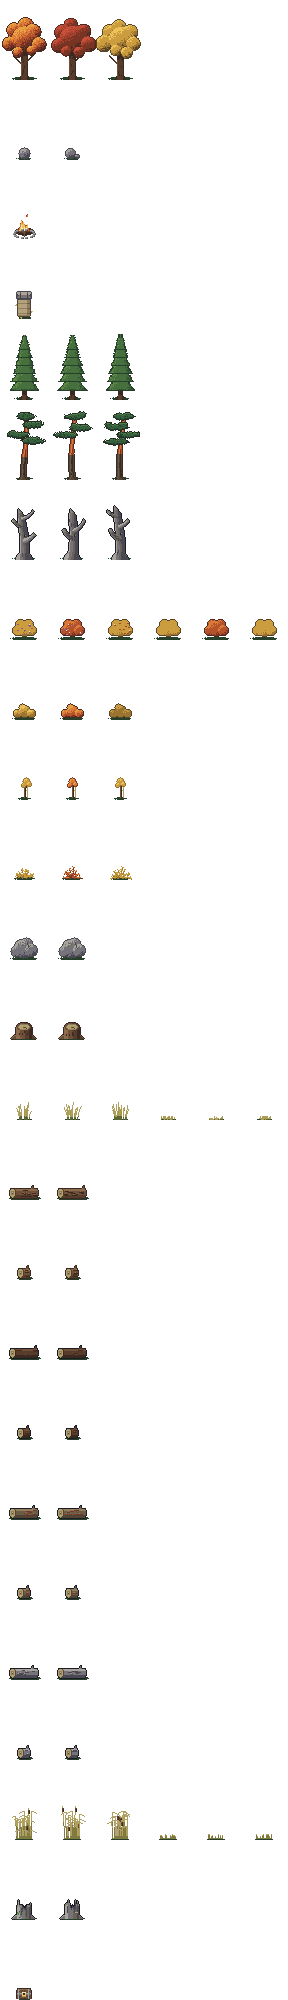
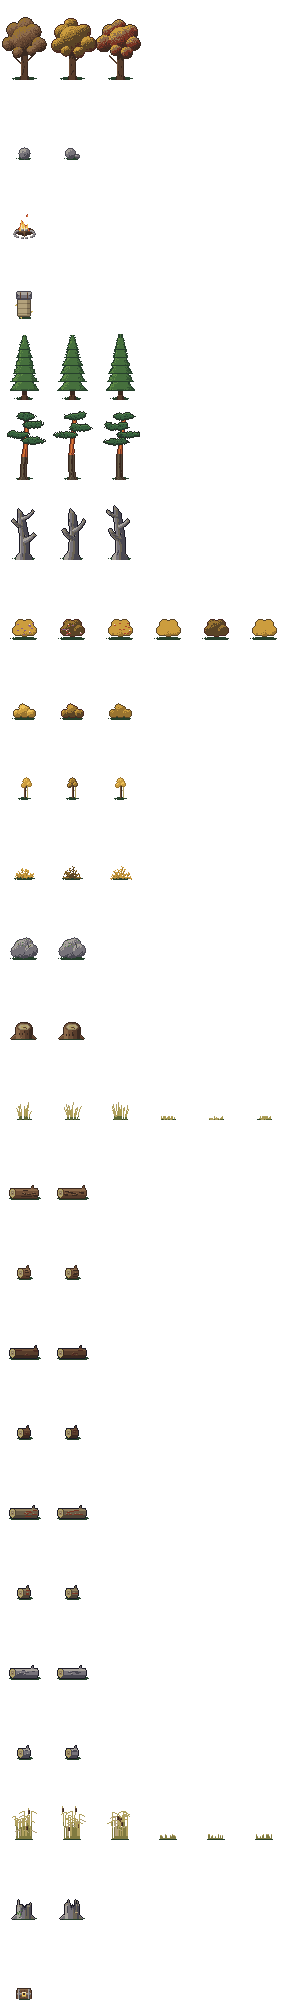
Autumn colours of the region: oaks brown, ochre and copper
The autumn crowns turned crimson and orange like New England maples.
Here oaks go brown and ochre, with copper (the beech's colour) as the
third variant; bushes turn yellow and ochre so their red berries still
stand out. Red is left rare: no tree here has it yet (rowan and cherry
would). The leaves a hit knocks off an autumn tree follow suit.

diff --git a/tools/art/seasons.py b/tools/art/seasons.py
@@ -155,23 +155,29 @@ _SHADOW_REMAPS = {
     "buds": "green_deep", "young_leaves": "green_deep",
 }
 
-# Leaf ramps for autumn trees and bushes, replacing the greens of summer.
-_ORANGE = {
-    "green_bright": "maple_light", "green_light": "flame", "green": "rust", "green_dark": "rust_dark",
-    "green_deep": "russet_deep", "olive": "rust_dark", "dry_light": "maple_light", "dry": "flame",
+# Leaf ramps for autumn trees and bushes, replacing the greens of summer. North Sea autumn is
+# brown, ochre, copper and yellow; red (rowan, cherry) is rare, and none of our trees has it.
+_BROWN = {
+    "green_bright": "ochre_dark", "green_light": "soil_light", "green": "soil_mid", "green_dark": "soil",
+    "green_deep": "soil_dark", "olive": "soil", "dry_light": "ochre_dark", "dry": "soil_light",
 }
-_RED = {
-    "green_bright": "red_light", "green_light": "ember", "green": "rust_dark", "green_dark": "rust_dark",
-    "green_deep": "russet_deep", "olive": "rust_dark", "dry_light": "red_light", "dry": "ember",
+_OCHRE = {
+    "green_bright": "ochre", "green_light": "ochre_dark", "green": "umber", "green_dark": "umber",
+    "green_deep": "russet_deep", "olive": "umber", "dry_light": "ochre", "dry": "ochre_dark",
+}
+# The beech's colour; an oak in its last leaves has it too.
+_COPPER = {
+    "green_bright": "ochre", "green_light": "soil_light", "green": "rust_dark", "green_dark": "russet_deep",
+    "green_deep": "soil_dark", "olive": "russet_deep", "dry_light": "ochre", "dry": "soil_light",
 }
 _YELLOW = {
     "green_bright": "gold", "green_light": "ochre", "green": "ochre", "green_dark": "ochre_dark",
     "green_deep": "umber", "olive": "ochre_dark", "dry_light": "gold", "dry": "ochre",
 }
 # One look per variant, so a forest of oaks has all of them.
-_AUTUMN_OAK = (_ORANGE, _RED, _YELLOW)
-# Bushes have yellow and orange only: red berries must stand out.
-_AUTUMN_BUSH = (_YELLOW, _ORANGE, _YELLOW)
+_AUTUMN_OAK = (_BROWN, _OCHRE, _COPPER)
+# Bushes turn yellow and ochre: the red berries must stand out.
+_AUTUMN_BUSH = (_YELLOW, _OCHRE, _YELLOW)
 
 # Bare twigs in winter, under the snow.
 _BARE_BUSH = {

diff --git a/SPEC.md b/SPEC.md
@@ -492,9 +492,10 @@ Decided 2026-11-05. A text console for testing and cheats.
   Winter), so a year has 120 days. The game starts on the 1st day of Spring, Year 1. The
   HUD shows "10th day of Spring Year 2 · 06:00".
 - **The world looks like its season** (decided 2026-11-05): the current art is summer.
-  Spring is a lighter, fresher green; autumn has colourful foliage (orange, red, yellow)
-  and yellower grass; winter is snow-covered (snow on the ground, snow on evergreens,
-  bare deciduous trees). The look changes when the season changes. This is the visual
+  Spring is a lighter, fresher green; autumn is North Sea autumn (task 52): oaks brown,
+  ochre or copper, bushes yellow and ochre, red rare (no tree has it yet), and yellower
+  grass; winter is snow-covered (snow on the ground, snow on evergreens, bare deciduous
+  trees). The look changes when the season changes. This is the visual
   season only: frozen rivers, deep snow and other weather effects on tiles stay with the
   weather system. The season's look is only the base: the blend, snow and frost above
   decide per tile and per plant which look shows.

diff --git a/README.md b/README.md
@@ -31,9 +31,9 @@ warm spring and summer evenings and nights. How often and how loud is in
 ### A world that changes with the seasons
 
 There are four seasons of 30 days each. The ground, the trees, the bushes and the buildings
-each have a look for every season: fresh green in spring, full summer foliage, red and
-gold autumn forests, and snow in winter. A new season comes in over its first three days,
-tile by tile and tree by tree: in spring the oaks and bushes leaf out in steps, from bare
+each have a look for every season: fresh green in spring, full summer foliage, brown,
+ochre and copper autumn oaks, and snow in winter. A new season comes in over its first
+three days, tile by tile and tree by tree: in spring the oaks and bushes leaf out in steps, from bare
 twigs to a haze of buds, thin young leaves and then the full crown. Pines are Scots pines,
 with tall reddish trunks and flat dark clumps of needles, and stay green all year like the
 spruces. Ground cover thins and fills over the year, ferns die back in winter, and berry

diff --git a/docs/art-style.md b/docs/art-style.md
@@ -325,7 +325,7 @@ task 51 (pine, spring leaf-out); changes to trees should be coordinated with it.
    in data and art with broad beans, flax or kale (or keep tomatoes as a rare imported
    seed). Make strawberries the small wild kind and the pumpkin a smaller, greener garden
    squash.
-4. **Autumn colours** (small, in `seasons.py`). Many crowns turn crimson and orange like
+4. **Done (task 52):** **Autumn colours** (small, in `seasons.py`). Many crowns turn crimson and orange like
    New England maples. Here oaks go brown and ochre, beeches copper, birches yellow. Make
    red rare (rowan, cherry) and merge `crimson` away. Coordinate with task 51.
 5. **Window panes** (small). Windows are 4-pane modern casements. Use 6–9 small panes
